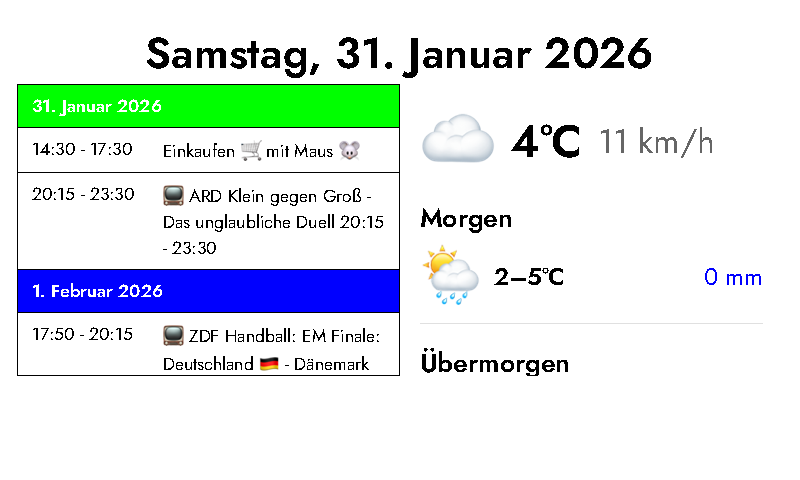
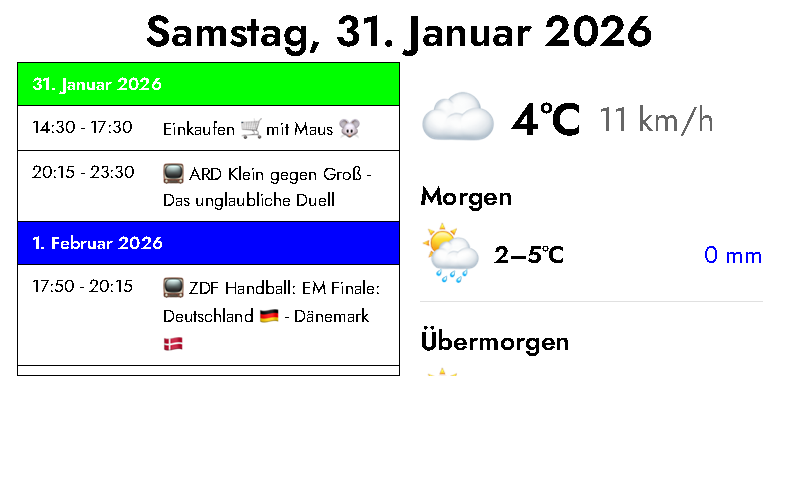
no padding or border at top, use all space

diff --git a/src/plugins/seniorDashboard_allDay/render/seniorDashboard_allDay.css b/src/plugins/seniorDashboard_allDay/render/seniorDashboard_allDay.css
@@ -5,6 +5,15 @@
   padding: 0;
 }
 
+/* Remove all top padding/margin from page and layout (plugin is rendered in body > .container) */
+body,
+.container,
+.dashboard-wrapper {
+  padding-top: 0 !important;
+  margin-top: 0 !important;
+  border-top: none !important;
+}
+
 .dashboard-wrapper {
   width: 100%;
   height: 100%;
@@ -18,7 +27,8 @@
   font-size: calc(var(--fc-title-font-size, 1.75em) * 1.54);
   font-weight: bold;
   font-family: "Jost";
-  padding: 5px 0 0 0;
+  padding: 0 !important;
+  margin: 0 !important;
   color: #000000;
   flex-shrink: 0;
 }
@@ -136,7 +146,10 @@
   height: 100%;
   font-family: "Jost";
   overflow: hidden;
+  padding-top: 0 !important;
+  margin-top: 0 !important;
 }
+
 
 .calendar .fc {
   width: 100%;
@@ -144,7 +157,9 @@
 }
 
 .fc-toolbar.fc-header-toolbar {
-  margin-bottom: 0px !important;
+  margin-top: 0 !important;
+  margin-bottom: 0 !important;
+  padding-top: 0 !important;
 }
 
 .fc .fc-daygrid-body-natural .fc-daygrid-day-events {
@@ -258,9 +273,11 @@ th {
   color: #FFFFFF !important;
 }
 
-/* Ensure FullCalendar elements respect the 50% width constraint */
+/* Ensure FullCalendar elements respect the 50% width constraint and have no top spacing */
 .calendar .fc-view-harness,
 .calendar .fc-scroller,
 .calendar .fc-scroller-liquid-absolute {
   width: 100% !important;
+  padding-top: 0 !important;
+  margin-top: 0 !important;
 }
